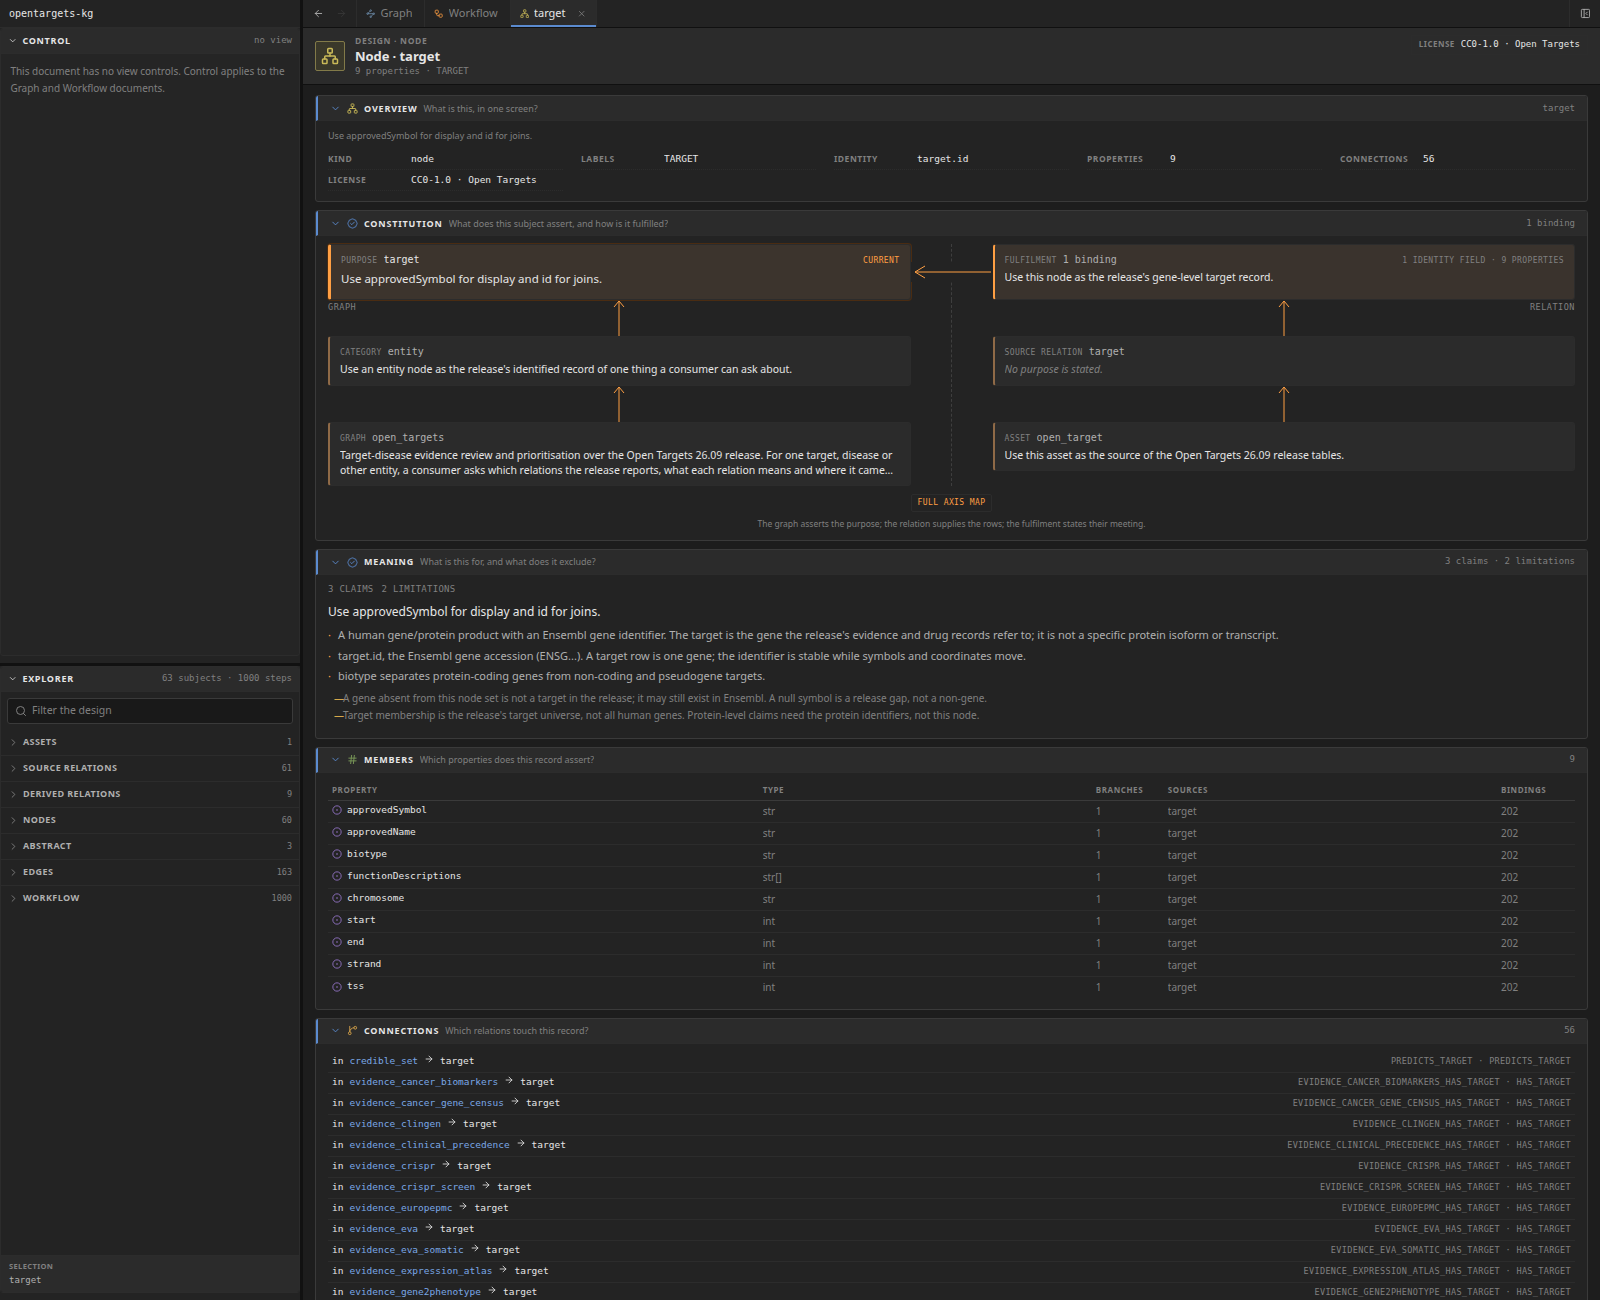
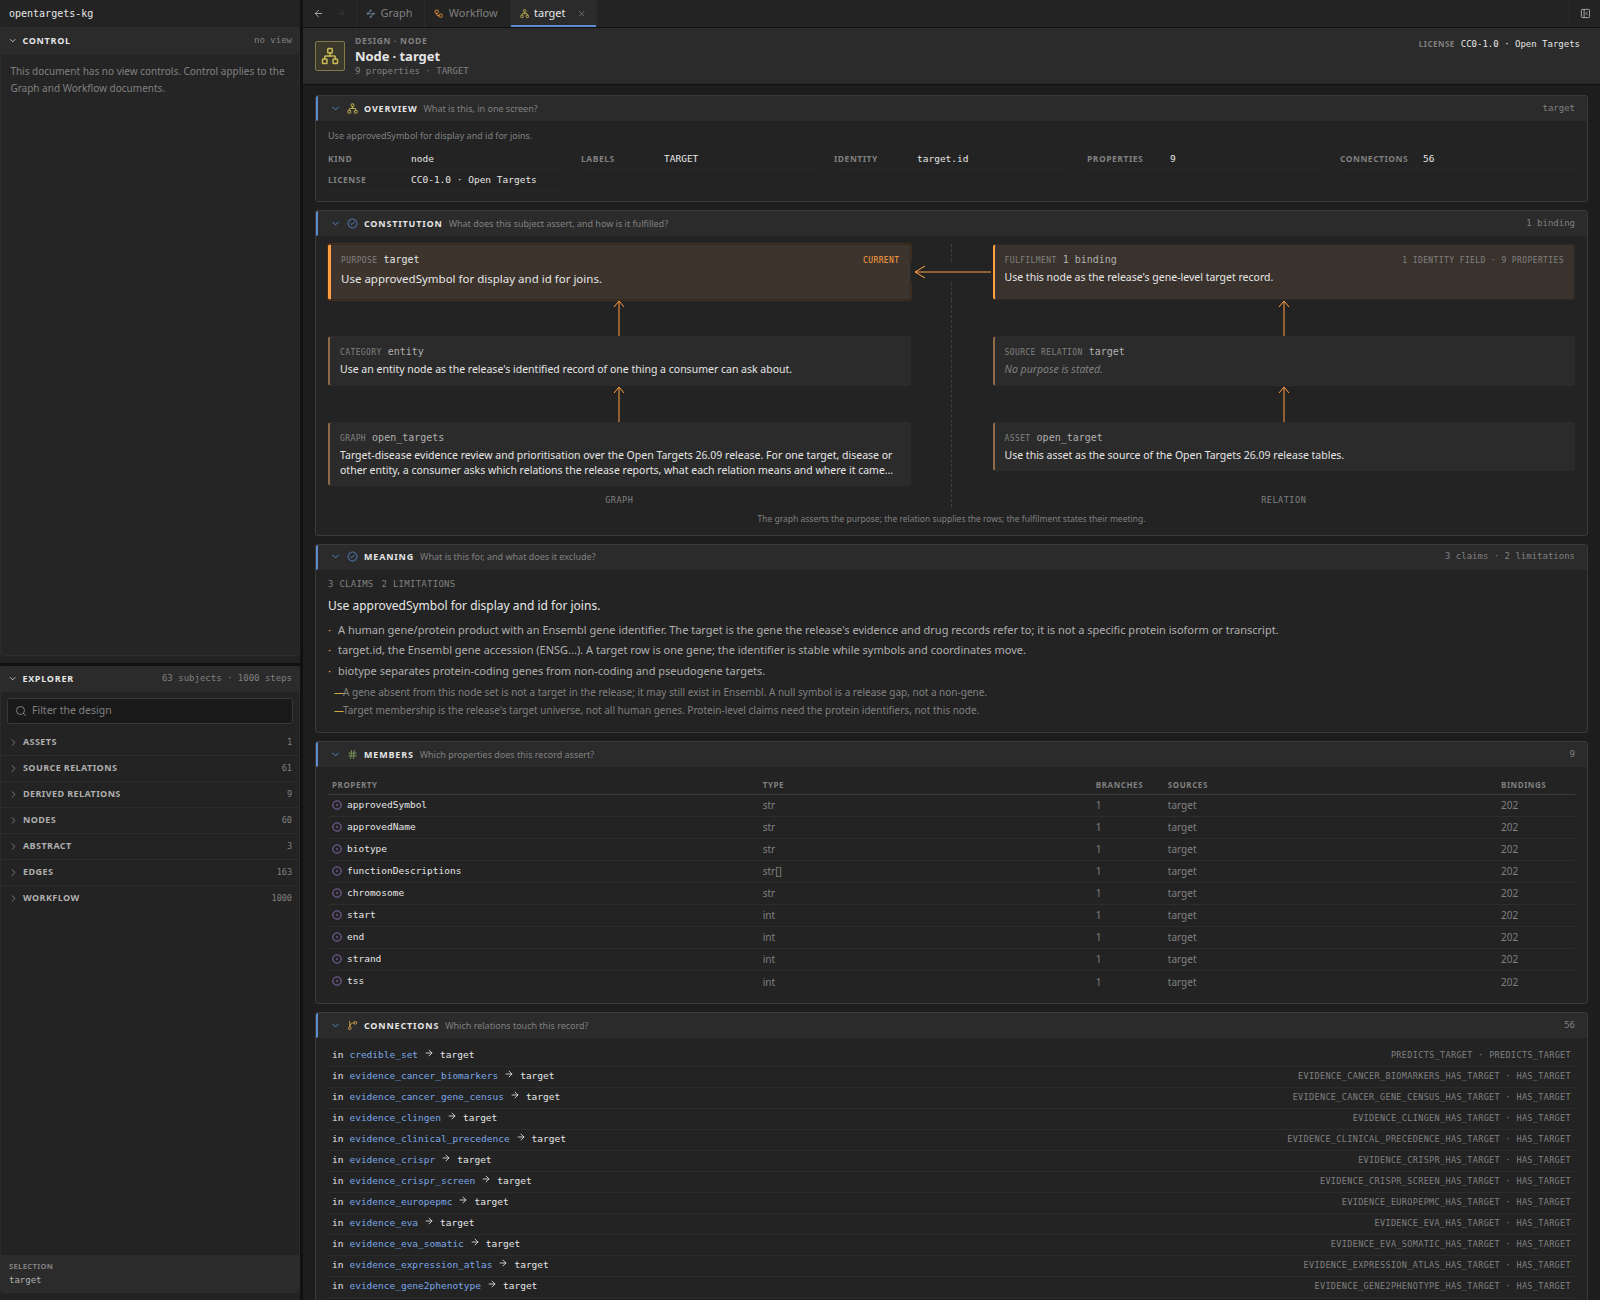
Move axis legends under the lanes and drop the axis map

diff --git a/viewer/shared/design/Constitution.tsx b/viewer/shared/design/Constitution.tsx
@@ -15,8 +15,6 @@ import styles from "./design.module.css";
 export interface ConstitutionProps {
   model: ConstitutionModel;
   onOpen?(target: ConstitutionTarget): void;
-  fullMapOpen?: boolean;
-  onToggleFullMap?(): void;
 }
 
 const CARD_WIDTH = 440;
@@ -164,7 +162,6 @@ function Branch({
 }) {
   return (
     <div className={styles.constitutionBranch} data-side={side}>
-      <span className={styles.constitutionBranchLabel}>{label}</span>
       <div className={styles.constitutionStack}>
         {nodes.length ? (
           nodes.map((node) => (
@@ -184,6 +181,7 @@ function Branch({
           <p className={styles.constitutionEmpty}>{empty}</p>
         )}
       </div>
+      <span className={styles.constitutionBranchLabel}>{label}</span>
     </div>
   );
 }
@@ -195,12 +193,7 @@ function Branch({
  * graph chain at the bottom. Hovering or focusing a box reveals its full
  * meaning in a portal, because the band clips overflow.
  */
-export function Constitution({
-  model,
-  onOpen,
-  fullMapOpen = false,
-  onToggleFullMap,
-}: ConstitutionProps) {
+export function Constitution({ model, onOpen }: ConstitutionProps) {
   const [hovered, setHovered] = useState<HoveredBox | null>(null);
   const closeTimer = useRef<number | null>(null);
   const cardRef = useRef<HTMLElement | null>(null);
@@ -364,7 +357,6 @@ export function Constitution({
         </div>
 
         <div className={styles.constitutionBranch} data-side="relation">
-          <span className={styles.constitutionBranchLabel}>Relation</span>
           <div className={styles.constitutionStack}>
             <Arrow />
             {primaryRelation ? (
@@ -400,21 +392,10 @@ export function Constitution({
               </div>
             ) : null}
           </div>
+          <span className={styles.constitutionBranchLabel}>Relation</span>
         </div>
       </div>
 
-      <div className={styles.constitutionTools}>
-        {onToggleFullMap ? (
-          <button
-            type="button"
-            className={styles.constitutionMapToggle}
-            aria-expanded={fullMapOpen}
-            onClick={onToggleFullMap}
-          >
-            {fullMapOpen ? "Hide axis map" : "Full axis map"}
-          </button>
-        ) : null}
-      </div>
       <p className={styles.constitutionNote}>
         The graph asserts the purpose; the relation supplies the rows; the
         fulfilment states their meeting.

diff --git a/viewer/detail/DetailFeature.tsx b/viewer/detail/DetailFeature.tsx
@@ -71,7 +71,7 @@ import {
   type DetailFact,
   type MemberRow,
 } from "./view/DetailChrome";
-import { FulfilmentMap, type AxisOpenTarget } from "./view/FulfilmentMap";
+import type { AxisOpenTarget } from "./view/FulfilmentMap";
 import {
   ExpressionTree,
   type ExpressionChain,
@@ -2107,24 +2107,6 @@ function overviewFacts(
   return facts;
 }
 
-function axisSubjectFor(model: ProofModel) {
-  switch (model.level) {
-    case "property":
-      return {
-        kind: "property" as const,
-        component: model.subject.component,
-        property: model.subject.property,
-      };
-    case "node":
-    case "edge":
-      return { kind: model.level, component: model.subject.component };
-    case "abstract":
-      return { kind: "abstract" as const, component: model.subject.component };
-    case "asset":
-      return { kind: "asset" as const, component: model.subject.component };
-  }
-}
-
 function SubjectDetailEditor(props: WorkspaceProps) {
   const index = props.state.index;
   const model = useProofModel(props);
@@ -2140,10 +2122,6 @@ function SubjectDetailEditor(props: WorkspaceProps) {
     () => constitutionModel(index, model.subject),
     [index, model.subject],
   );
-  const [axisMapOpen, setAxisMapOpen] = useState(false);
-  useEffect(() => {
-    setAxisMapOpen(false);
-  }, [model.level, model.subject.component, model.subject.property]);
   const provenance = useMemo(
     () => provenanceReferences(index, model),
     [model, index],
@@ -2308,22 +2286,7 @@ function SubjectDetailEditor(props: WorkspaceProps) {
       }`}
       testId="detail-constitution"
     >
-      <Constitution
-        model={constitution}
-        onOpen={openConstitution}
-        fullMapOpen={axisMapOpen}
-        onToggleFullMap={() => setAxisMapOpen((value) => !value)}
-      />
-      {axisMapOpen ? (
-        <div className={styles.constitutionMap}>
-          <FulfilmentMap
-            index={index}
-            subject={constitution.axis ?? axisSubjectFor(model)}
-            onOpen={openAxis}
-            defaultExpanded
-          />
-        </div>
-      ) : null}
+      <Constitution model={constitution} onOpen={openConstitution} />
     </DetailBand>
   );
   const meaningSection = (

diff --git a/viewer/shared/design/design.module.css b/viewer/shared/design/design.module.css
@@ -473,21 +473,15 @@ button.constitutionName:focus-visible {
 }
 
 .constitutionBranchLabel {
-  position: absolute;
-  top: 1px;
+  align-self: center;
+  margin-top: auto;
+  padding-top: 8px;
   color: var(--color-faint);
   font-family: var(--font-mono);
   font-size: 8.5px;
   letter-spacing: 0.06em;
+  text-align: center;
   text-transform: uppercase;
-}
-
-.constitutionBranch[data-side="graph"] .constitutionBranchLabel {
-  left: 0;
-}
-
-.constitutionBranch[data-side="relation"] .constitutionBranchLabel {
-  right: 0;
 }
 
 .constitutionStack {
@@ -515,34 +509,6 @@ button.constitutionName:focus-visible {
   color: var(--color-faint);
   font-size: 9.5px;
   line-height: 1.4;
-}
-
-.constitutionTools {
-  display: flex;
-  justify-content: center;
-  margin-top: 8px;
-}
-
-.constitutionMapToggle {
-  border: 1px solid var(--color-line-soft);
-  border-radius: 2px;
-  background: transparent;
-  padding: 2px 6px;
-  color: var(--color-selection);
-  font-family: var(--font-mono);
-  font-size: 8px;
-  letter-spacing: 0.05em;
-  text-transform: uppercase;
-  cursor: pointer;
-}
-
-.constitutionMapToggle:hover {
-  border-color: var(--color-line-strong);
-}
-
-.constitutionMapToggle:focus-visible {
-  outline: 1px solid var(--color-accent);
-  outline-offset: 1px;
 }
 
 .constitutionNote {
@@ -594,9 +560,10 @@ button.constitutionName:focus-visible {
   }
 
   .constitutionBranchLabel {
-    position: static;
-    align-self: flex-start;
-    margin-bottom: 2px;
+    align-self: center;
+    margin-top: 0;
+    padding-top: 8px;
+    text-align: center;
   }
 
 }

diff --git a/viewer/detail/DataItemFeature.tsx b/viewer/detail/DataItemFeature.tsx
@@ -1,6 +1,6 @@
 "use client";
 
-import { useEffect, useMemo, useState } from "react";
+import { useMemo } from "react";
 
 import { expressionPreview, logicalTypeName, operationName } from "@/lib/expressions";
 import {
@@ -35,7 +35,7 @@ import {
   type DetailFact,
   type MemberRow,
 } from "./view/DetailChrome";
-import { FulfilmentMap, type AxisOpenTarget } from "./view/FulfilmentMap";
+import type { AxisOpenTarget } from "./view/FulfilmentMap";
 import {
   ExpressionTree,
   type ExpressionChain,
@@ -304,10 +304,6 @@ export function DataItemEditor(props: WorkspaceProps) {
     () => constitutionModel(index, { level: kind, component: model.name }),
     [index, kind, model.name],
   );
-  const [axisMapOpen, setAxisMapOpen] = useState(false);
-  useEffect(() => {
-    setAxisMapOpen(false);
-  }, [kind, model.name]);
   const overviewSection = (
       <DetailBand
         concept={concept}
@@ -357,21 +353,7 @@ export function DataItemEditor(props: WorkspaceProps) {
               openAxis(target);
           }
         }}
-        fullMapOpen={axisMapOpen}
-        onToggleFullMap={() => setAxisMapOpen((value) => !value)}
       />
-      {axisMapOpen ? (
-        <div className={styles.constitutionMap}>
-          <FulfilmentMap
-            index={index}
-            subject={
-              constitution.axis ?? { kind, component: model.name }
-            }
-            onOpen={openAxis}
-            defaultExpanded
-          />
-        </div>
-      ) : null}
     </DetailBand>
   );
   const hasMeaning =

diff --git a/viewer/shared/design/constitution.ts b/viewer/shared/design/constitution.ts
@@ -69,8 +69,6 @@ export interface ConstitutionModel {
   /** Relation-axis levels, ordered from the relation toward the asset. */
   relation: ConstitutionNode[];
   binding?: ConstitutionBinding;
-  /** The subject the full axis map reads. */
-  axis?: AxisSubject;
 }
 
 export interface ConstitutionSubjectLike {
@@ -398,6 +396,5 @@ export function constitutionModel(
     graph,
     relation,
     ...(binding ? { binding } : {}),
-    ...(axis ? { axis } : {}),
   };
 }

diff --git a/viewer/detail/detail.module.css b/viewer/detail/detail.module.css
@@ -2334,8 +2334,3 @@ button.memberRow:focus-visible {
   text-transform: uppercase;
 }
 
-.constitutionMap {
-  margin-top: 10px;
-  border-top: 1px solid var(--color-line-soft);
-  padding-top: 8px;
-}

diff --git a/viewer/DETAIL_CONTENT.md b/viewer/DETAIL_CONTENT.md
@@ -16,7 +16,7 @@ includes by their immediate importance to a reader; it never renames one. A
 | Order | Section | Question it answers | Content |
 | --- | --- | --- | --- |
 | 1 | **Overview** | What is this, in one screen? | One fact grid: kind, labels, identity, owner or endpoints, counts and licence. |
-| 2 | **Constitution** | What does this subject assert, and how is it fulfilled? | Purpose and Fulfilment are the two top boxes, on opposite sides of the separator; a horizontal arrow runs from Fulfilment to Purpose. The Graph chain is below Purpose and ends at the graph purpose; the Relation chain is below Fulfilment. The separator divides the two axes. Arrows point up to the purpose each box supports; the relation's provenance branches sit below it. Each box clamps its purpose to two lines; hovering or focusing it reveals the full meaning, and a box label opens its document. The Fulfilment box states the binding count; identity fields and coverage appear when the box has room and always in the full axis map. A grouped branch shows the first item and `+N`; one control expands the full axis map. |
+| 2 | **Constitution** | What does this subject assert, and how is it fulfilled? | Purpose and Fulfilment are the two top boxes, on opposite sides of the separator; a horizontal arrow runs from Fulfilment to Purpose. The Graph chain is below Purpose and ends at the graph purpose; the Relation chain is below Fulfilment. The separator divides the two axes. The axis legend sits at the bottom centre of each lane. Arrows point up to the purpose each box supports; the relation's provenance branches sit below it. Each box clamps its purpose to two lines; hovering or focusing it reveals the full meaning, and a box label opens its document. The Fulfilment box states the binding count; identity fields and coverage appear when the box has room. A grouped branch shows the first item and `+N`. |
 | 3 | **Meaning** | What is this for, and what does it exclude? | The full meaning of the current subject: purpose, the limitations it owns, then contextless claims; compact counts in the header. |
 | 4 | **Sources** | Where does this value come from? | Assets, source relations and derived relations, as navigable references with counts. |
 | 5 | **Build steps** | How is this built? | The narrowed workflow graph of the steps that produce the subject. |
@@ -87,11 +87,10 @@ branches descend from it, and each box points up to the purpose it supports.
   relation tree sits below it. A horizontal arrow runs from Fulfilment to
   Purpose. Every stacked item uses the same vertical gap. Fulfilment states the
   binding count; identity fields and coverage appear when the box has room and
-  always in the full axis map. The graph asserts, the relation supplies, and
+  when the box has room. The graph asserts, the relation supplies, and
   the Fulfilment box states their meeting.
 - A branch with many records, relations or assets shows the first item and
-  `+N`, so the card stays compact. **Full axis map** expands the same data into
-  the three-column records / fulfilment / relations view.
+  `+N`, so the card stays compact.
 
 The card never invents a purpose, a relation or a binding. When a declaration
 states no meaning, the box says so; when no binding meets the two axes, the
@@ -120,5 +119,5 @@ label opens that level's document. The box itself is inspection only.
 - The section body is 8px above and 10px below its content; a flush body is
   used for a canvas or a table that owns its own padding.
 - A table shares one `grid-template-columns` between its head and every row.
-- At narrow width the Sources groups stack and the full axis map becomes one
-  column; nothing overflows horizontally.
+- At narrow width the Sources groups stack into one column; nothing overflows
+  horizontally.

diff --git a/viewer/README.md b/viewer/README.md
@@ -174,8 +174,8 @@ The first paint shows the design, not its annotations.
 | --- | --- | --- |
 | Graph document | Blender-node-editor canvas with a dot and major grid, degree-sized nodes tinted by category, faint category hulls and hub labels; the shared visualisation header states visible nodes and links, carries the **Inspect** toggle and opens a floating inspector showing graph purpose and counts | selecting an entity fills Inspect with its meaning, properties and the fulfilment map; clicking empty space returns to graph purpose; **Clusters**, **Labels** and **Show** in Control reveal the other layers |
 | Workflow document | compositor-style component graph in the shared visualisation frame; its header names the workflow or focused step group and states component or step counts, with step-group actions on the right; drag to pan, wheel to zoom, Fit in the bottom-left navigation cluster resets | filter by component or instruction kind in Control; click a component to select it, then use **Open step group** to enter its step-level flow graph with one block per dependency layer; a large layer wraps into aligned sub-columns and chains read left to right; clicking a step node selects it, **Open step** opens its detail document, and **Back** returns to components. Selecting a component, step or boundary node highlights its incident links and dims the other nodes and links; entering another step group requires **Open step group** |
-| Subject document | one stack of bands in the shared order: Overview, Constitution (the purpose root, graph and relation branches, fulfilment box and full axis map), Meaning, Sources, Build steps, Expression, Members, Connections, Bindings; the effective licence sits in the header | a section header collapses its band; property rows and the branch selector open their own documents; the Explorer tree opens another subject document |
-| Relation document | the same bands; Overview states kind, asset, columns, row source, scans, bindings and licence; Constitution, Meaning, Sources, Build steps, Expression, Members and Bindings follow | a column definition, the expression outline and the Constitution's full axis map |
+| Subject document | one stack of bands in the shared order: Overview, Constitution (purpose and fulfilment top boxes, graph and relation branches, axis legends), Meaning, Sources, Build steps, Expression, Members, Connections, Bindings; the effective licence sits in the header | a section header collapses its band; property rows and the branch selector open their own documents; the Explorer tree opens another subject document |
+| Relation document | the same bands; Overview states kind, asset, columns, row source, scans, bindings and licence; Constitution, Meaning, Sources, Build steps, Expression, Members and Bindings follow | a column definition, the expression outline and the Constitution tree |
 | Step document | the same bands; Overview, Meaning and Sources state what a step is and what it is not, then Ports, Payload, Connections and Bindings | a port, a payload field or a connected step |
 
 Every item document follows the content contract in
@@ -252,7 +252,7 @@ viewer/
   workbench/           VS Code layout, state, persistence, UI chrome
   topology/            canonical design graph, detail controls and view
   workflow/            compiled workflow plan: compositor graph and step detail
-  detail/              the shared detail contract: bands, axis map and expression
+  detail/              the shared detail contract: bands, constitution and expression
   proof/               the provenance model used by Detail
   shared/design/       meaning value, graph/entity meaning, and its renderer
   lib/                 snapshot types, loader, indexes, shared models

diff --git a/viewer/HIERARCHY.md b/viewer/HIERARCHY.md
@@ -57,7 +57,7 @@ position.
 | **Step** | one workflow step's instruction, payload, openings, connections and blueprint bindings on the same detail surface as node and subject documents; opened from the workflow section of Explorer |
 | **Source relation** | a source relation's identity, contract, owning asset, columns, indented expression outline from the relation back through its fields to the asset, its Constitution (current purpose and fulfilment as the two top boxes on opposite sides of the separator, bound records, relation and asset branches) and its full meaning in the Meaning band; the effective licence is in the banner |
 | **Derived relation** | a derived relation's identity, contract, columns, row source, indented expression outline from each column back through its operators and row source to the asset, its Constitution (current purpose and fulfilment as the two top boxes on opposite sides of the separator, bound records, relation and asset branches) and its full meaning in the Meaning band; the effective licence is in the banner |
-| **Subject** (node, edge, property, asset, abstract) | provenance assets, source relations and derived relations first for node, edge and property; asset and relation references are navigable to their own documents; the effective licence is in the banner; a pannable, zoomable narrowed workflow graph and an indented expression outline of the actual field and operator chain from the current item back to its provenance assets follows, then the Constitution tree (current subject's purpose and fulfilment as the two top boxes on opposite sides of the separator, a horizontal fulfilment-to-purpose arrow, graph branch from its immediate parent down to the graph purpose, relation branch with its provenance branches below, optional full axis map; hovering a box shows its full meaning, and a label opens that level), the current subject's full Meaning, properties and, for a property, provenance lanes and type/presence |
+| **Subject** (node, edge, property, asset, abstract) | provenance assets, source relations and derived relations first for node, edge and property; asset and relation references are navigable to their own documents; the effective licence is in the banner; a pannable, zoomable narrowed workflow graph and an indented expression outline of the actual field and operator chain from the current item back to its provenance assets follows, then the Constitution tree (current subject's purpose and fulfilment as the two top boxes on opposite sides of the separator, a horizontal fulfilment-to-purpose arrow, graph branch from its immediate parent down to the graph purpose, relation branch with its provenance branches below, axis legends at the bottom centre of each lane; hovering a box shows its full meaning, and a label opens that level), the current subject's full Meaning, properties and, for a property, provenance lanes and type/presence |
 
 A node or property click in the canvas only changes transient inspection.
 Single-clicking an Explorer row opens or reuses one preview tab; double-clicking

diff --git a/viewer/DESIGN_LANGUAGE.md b/viewer/DESIGN_LANGUAGE.md
@@ -90,8 +90,8 @@ A kind includes or omits a section; it never renames one for itself.
   gap. Each box states only its own purpose and clamps; arrows point up to the
   purpose it supports. Hovering or focusing a box reveals its full meaning in a
   portal card; a box label opens that level's document. A grouped branch shows
-  the first item and `+N`; **Full axis map** expands the same data into the
-  three-column records, fulfilment and relations view.
+  the first item and `+N`. The axis legend sits at the bottom centre of each
+  lane.
 - **Meaning** is the full meaning of the current subject: purpose, the
   limitations it owns, then contextless claims. It is a separate card from the
   Constitution, so a reader can see the two axes and the subject's complete
